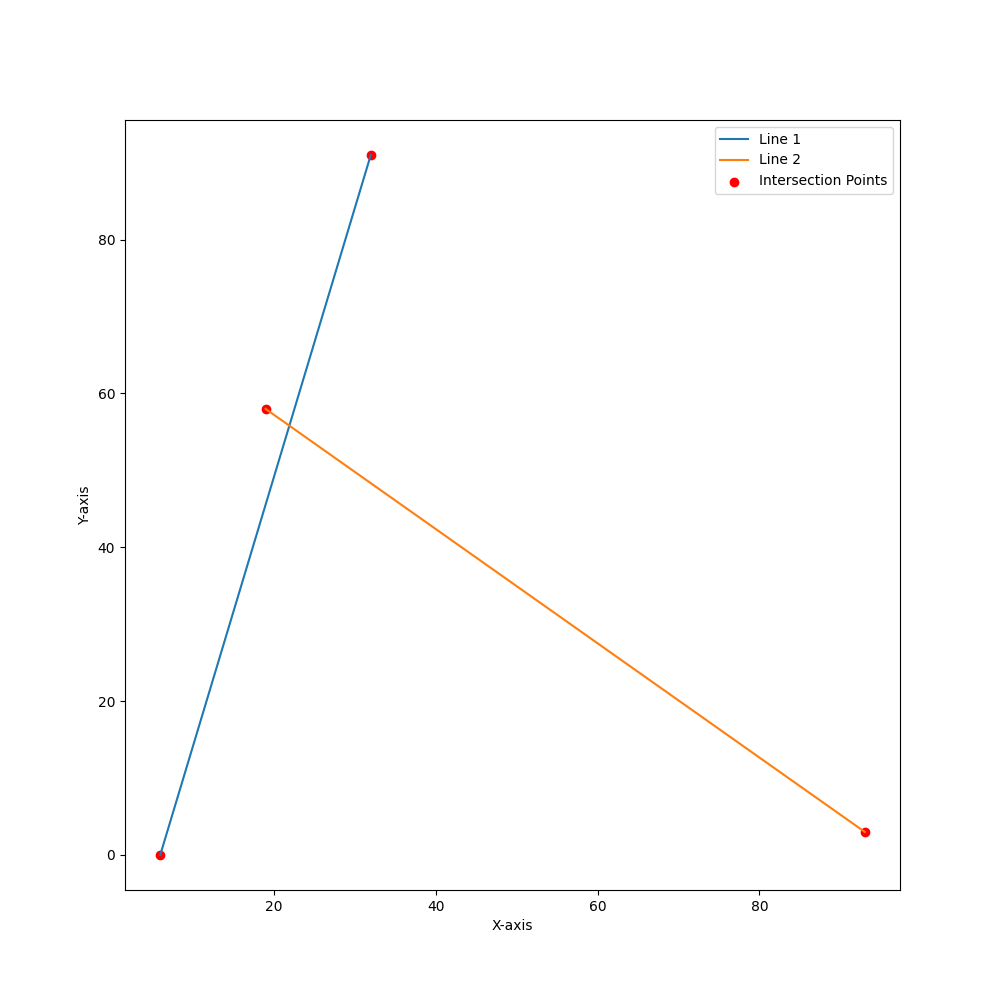
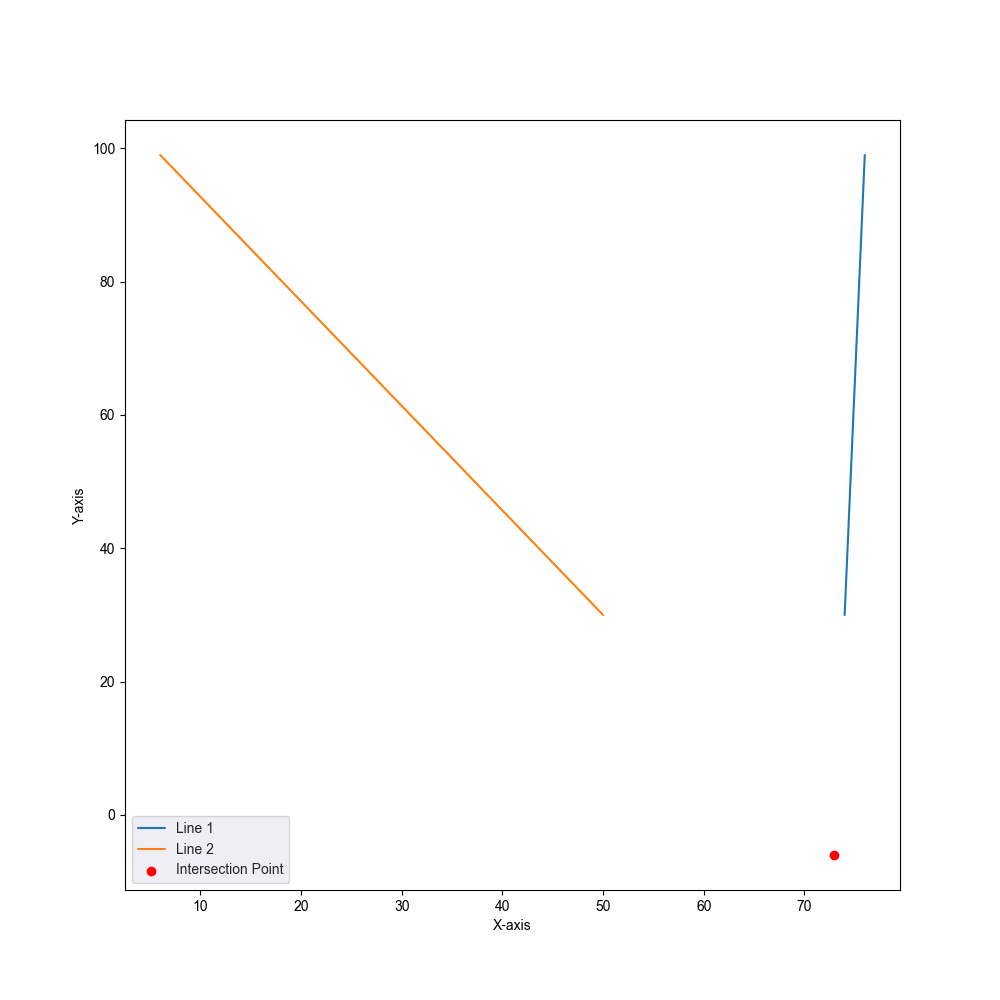
Intersection complete

diff --git a/templates/index.html b/templates/index.html
@@ -191,7 +191,7 @@ document.getElementById('lineIntersection').addEventListener('click', function()
 
           </div>
         </div>
-        </form
+        </form>
    </div>
 </div>
 <div class="card" style="height:600px; width:80%; margin:3% 10% 3% 10%;">
@@ -414,7 +414,7 @@ document.getElementById('vector').addEventListener('click',function(){
   <p class="mb-0">Whenever you need to, be sure to use margin utilities to keep things nice and tidy.</p>
 </div>
     <div class="card-body">
-          
+        <form id="vector-form" name="vector">    
           <p class="card-text">Enter the coordinates for Line 1 and Line 2:</p>
           <div class="row">
             <div class="col">
@@ -457,20 +457,77 @@ document.getElementById('vector').addEventListener('click',function(){
             <button id="runAlgorithm" type="button" class="btn btn-danger">Run Algorithm &#128640;</button>
           </div>
         </div>
+        </form>
    </div>
-</div>`;
+</div>
+<div class="card" style="height:600px; width:80%; margin:3% 10% 3% 10%;">
+  <img id="vector-image" src="">
+  </div>`;
+  let lines = {
+    l1P1X: document.getElementById('line1Point1X'),
+    l1P1Y: document.getElementById('line1Point1Y'),
+    l1P2X: document.getElementById('line1Point2X'),
+    l1P2Y: document.getElementById('line1Point2Y'),
+    l2P1X: document.getElementById('line2Point1X'),
+    l2P1Y: document.getElementById('line2Point1Y'),
+    l2P2X: document.getElementById('line2Point2X'),
+    l2P2Y: document.getElementById('line2Point2Y')
+  };
       document.getElementById('randomButton').addEventListener('click', function() {
-      // Generate random numbers and populate the input fields
-      document.getElementById('line1Point1X').value = Math.floor(Math.random() * 100);
-      document.getElementById('line1Point1Y').value = Math.floor(Math.random() * 100);
-      document.getElementById('line1Point2X').value = Math.floor(Math.random() * 100);
-      document.getElementById('line1Point2Y').value = Math.floor(Math.random() * 100);
-      document.getElementById('line2Point1X').value = Math.floor(Math.random() * 100);
-      document.getElementById('line2Point1Y').value = Math.floor(Math.random() * 100);
-      document.getElementById('line2Point2X').value = Math.floor(Math.random() * 100);
-      document.getElementById('line2Point2Y').value = Math.floor(Math.random() * 100);
-    });
+        lines.l1P1X.value = Math.floor(Math.random() * 100);
+      lines.l1P1Y.value = Math.floor(Math.random() * 100);
+      lines.l1P2X.value = Math.floor(Math.random() * 100);
+      lines.l1P2Y.value = Math.floor(Math.random() * 100);
+      lines.l2P1X.value = Math.floor(Math.random() * 100);
+      lines.l2P1Y.value = Math.floor(Math.random() * 100);
+      lines.l2P2X.value = Math.floor(Math.random() * 100);
+      lines.l2P2Y.value = Math.floor(Math.random() * 100);
 
+    });
+    document.getElementById('runAlgorithm').addEventListener('click', function () {
+    // get all inputs and create a FormData object
+    let formData = {
+      line1Point1X: lines.l1P1X.value,
+      line1Point1Y: lines.l1P1Y.value,
+      line1Point2X: lines.l1P2X.value,
+      line1Point2Y: lines.l1P2Y.value,
+      line2Point1X: lines.l2P1X.value,
+      line2Point1Y: lines.l2P1Y.value,
+      line2Point2X: lines.l2P2X.value,
+      line2Point2Y: lines.l2P2Y.value
+    }
+    console.log(formData, 'formData')
+
+    formData = JSON.stringify(formData)
+console.log(formData, 'formData')
+fetch('/vector', {
+  method: 'POST',
+  headers: {
+            'Content-Type': 'application/json', // Set the content type to JSON
+        },
+  body: formData
+})
+  .then(response => {
+    console.log(response);
+    if (!response.ok) {
+      throw new Error('Network response was not ok');
+    }
+
+    return response.json();  // Assuming the server returns JSON with the image URL
+  })
+  .then(data => {
+    // Check if the server returned an image_url
+    if (!data.image_url) {
+      throw new Error('Server did not return an image_url');
+    }
+
+    // Update the image source with the URL received from the server
+    document.getElementById('vector-image').src = data.image_url;
+  })
+  .catch(error => {
+    console.error('Error:', error);
+  });
+});
     
   });
   

diff --git a/line3.py b/line3.py
@@ -1,4 +1,6 @@
 import matplotlib.pyplot as plt
+import io
+from matplotlib.backends.backend_agg import FigureCanvasAgg as FigureCanvas
 
 class Point:
     def __init__(self, x, y):
@@ -13,38 +15,58 @@ class Line:
 def vector_cross_product(v1, v2):
     return v1.x * v2.y - v1.y * v2.x
 
-def vectors_on_opposite_sides(p1, p2, q1, q2):
-    v1 = Point(q1.x - p1.x, q1.y - p1.y)
-    v2 = Point(q2.x - p1.x, q2.y - p1.y)
-    v3 = Point(p1.x - q1.x, p1.y - q1.y)
-    v4 = Point(p2.x - q1.x, p2.y - q1.y)
+def vectors_on_opposite_sides(p1x,p1y, p2x,p2y, q1x,q1y, q2x,q2y):
+    v1 = Point(q1x - p1x, q1y - p1y)
+    v2 = Point(q2x - p1x, q2y - p1y)
+    v3 = Point(p1x - q1x, p1y - q1y)
+    v4 = Point(p2x - q1x, p2y - q1y)
 
     cross_product1 = vector_cross_product(v1, v2)
     cross_product2 = vector_cross_product(v3, v4)
 
     return (cross_product1 < 0 and cross_product2 > 0) or (cross_product1 > 0 and cross_product2 < 0)
 
-def do_intersect(line1, line2):
-    p1, q1 = line1.point1, line1.point2
-    p2, q2 = line2.point1, line2.point2
+def do_intersect(line1Point1X,line1Point1Y,line1Point2X,line1Point2Y,line2Point1X,line2Point1Y,line2Point2X,line2Point2Y):
+    
+    p1x = line1Point1X
+    p1y = line1Point1Y
+    p2x = line2Point1X
+    p2y = line2Point1Y
+    q1x = line1Point2X
+    q1y = line1Point2Y
+    q2x = line2Point2X
+    q2y = line2Point2Y
+    return vectors_on_opposite_sides(p1x,p1y, q1x,q1y ,p2x,p2y, q2x,q2y) and vectors_on_opposite_sides(p2x,p2y, q2x,q2y, p1x,p1y, q1x,q1y)
 
-    return vectors_on_opposite_sides(p1, q1, p2, q2) and vectors_on_opposite_sides(p2, q2, p1, q1)
 
+def Vectorisation(line1Point1X,line1Point1Y,line1Point2X,line1Point2Y,line2Point1X,line2Point1Y,line2Point2X,line2Point2Y):
+    line1Point1X =int(line1Point1X)
+    line1Point1Y=int(line1Point1Y)
+    line1Point2X=int(line1Point2X)
+    line1Point2Y=int(line1Point2Y)
+    line2Point1X=int(line2Point1X)
+    line2Point1Y=int(line2Point1Y)
+    line2Point2X=int(line2Point2X)
+    line2Point2Y=int(line2Point2Y)
 
-def Vectorisation(line1,line2):
-    if do_intersect(line1, line2):
+    if do_intersect(line1Point1X,line1Point1Y,line1Point2X,line1Point2Y,line2Point1X,line2Point1Y,line2Point2X,line2Point2Y):
       print("Lines intersect.")
     else:
       print("Lines do not intersect.")
+    fig,ax=plt.subplots(figsize=(10,10))
+    
 
+    plt.plot([line1Point1X, line1Point2X], [line1Point1Y, line1Point2Y], label='Line 1')
+    plt.plot([line2Point1X, line2Point2X], [line2Point1Y, line2Point2Y], label='Line 2')
 
-    plt.plot([line1.point1.x, line1.point2.x], [line1.point1.y, line1.point2.y], label='Line 1')
-    plt.plot([line2.point1.x, line2.point2.x], [line2.point1.y, line2.point2.y], label='Line 2')
-
-    if do_intersect(line1, line2):
-        plt.scatter([line1.point1.x, line1.point2.x, line2.point1.x, line2.point2.x], [line1.point1.y, line1.point2.y, line2.point1.y,line2.point2.y], color='red', label='Intersection Points')
+    if do_intersect(line1Point1X,line1Point1Y,line1Point2X,line1Point2Y,line2Point1X,line2Point1Y,line2Point2X,line2Point2Y):
+        plt.scatter([line1Point1X, line1Point2X, line2Point1X, line2Point2X], [line1Point1Y, line1Point2Y, line2Point1Y, line2Point2Y], color='red', label='Intersection Points')
 
     plt.xlabel('X-axis')
     plt.ylabel('Y-axis')
     plt.legend()
-    plt.show()
+    canvas=FigureCanvas(fig)
+    img=io.BytesIO()
+    fig.savefig(img)
+    img.seek(0)
+    return img

diff --git a/menu.py b/menu.py
@@ -60,7 +60,27 @@ def orient():
     line2Point2X = int(data["line2Point2X"])
     line2Point2Y = int(data["line2Point2Y"])
     i=line2.IntersectbyOrient(line1Point1X,line1Point1Y,line1Point2X,line1Point2Y,line2Point1X,line2Point1Y,line2Point2X,line2Point2Y)
-    image_path = os.path.join('static', 'image.png')
+    image_path = os.path.join('static', 'orient_image.png')
+    image=Image.open(BytesIO(i.getvalue()))
+    image.save(image_path)
+    image_url = image_path
+
+    return jsonify({'image_url': image_url})
+@app.route('/vector', methods=['POST'])
+def vector():
+    data = request.get_json()
+    print(data, 'json data')
+    print()
+    line1Point1X = int(data["line1Point1X"])
+    line1Point1Y = int(data["line1Point1Y"])
+    line1Point2X = int(data["line1Point2X"])
+    line1Point2Y = int(data["line1Point2Y"])
+    line2Point1X = int(data["line2Point1X"])
+    line2Point1Y = int(data["line2Point1Y"])
+    line2Point2X = int(data["line2Point2X"])
+    line2Point2Y = int(data["line2Point2Y"])
+    i=line3.Vectorisation(line1Point1X,line1Point1Y,line1Point2X,line1Point2Y,line2Point1X,line2Point1Y,line2Point2X,line2Point2Y)
+    image_path = os.path.join('static', 'vector_image.png')
     image=Image.open(BytesIO(i.getvalue()))
     image.save(image_path)
     image_url = image_path
